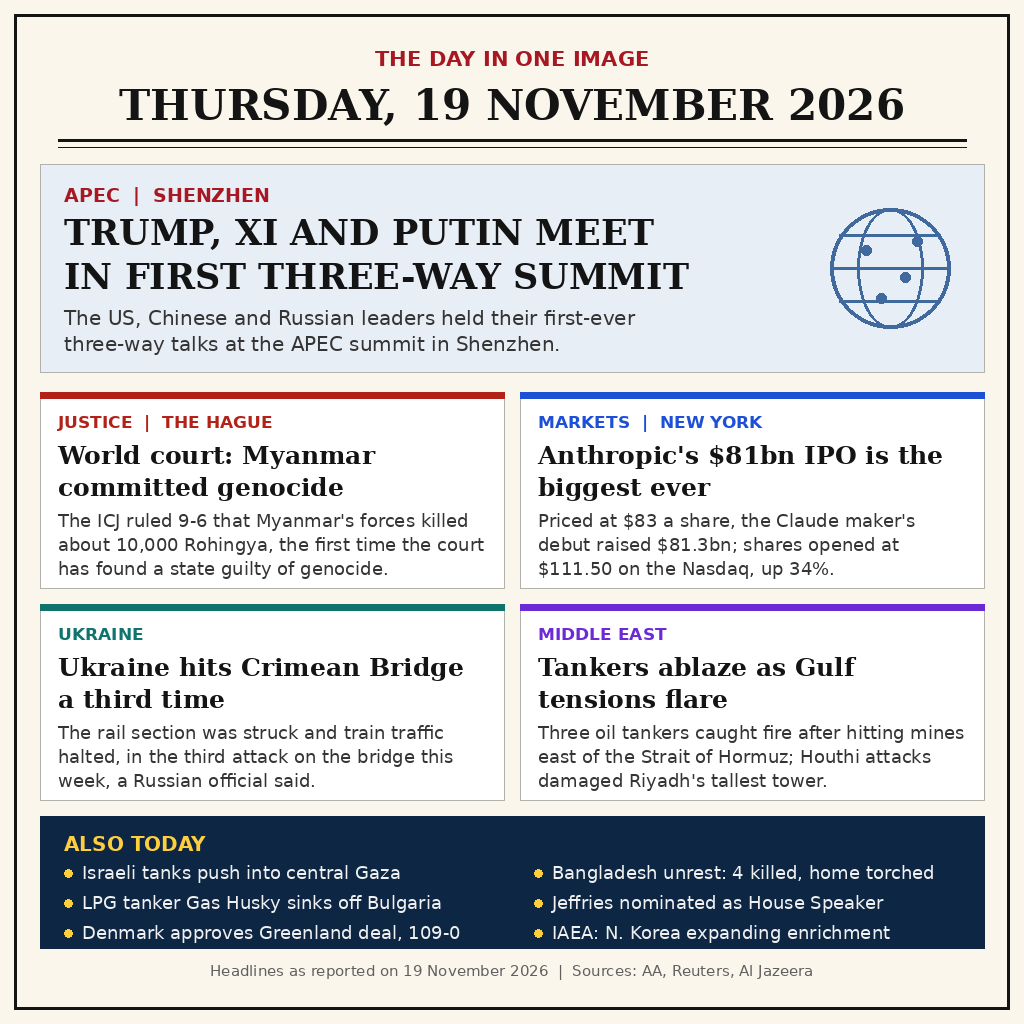
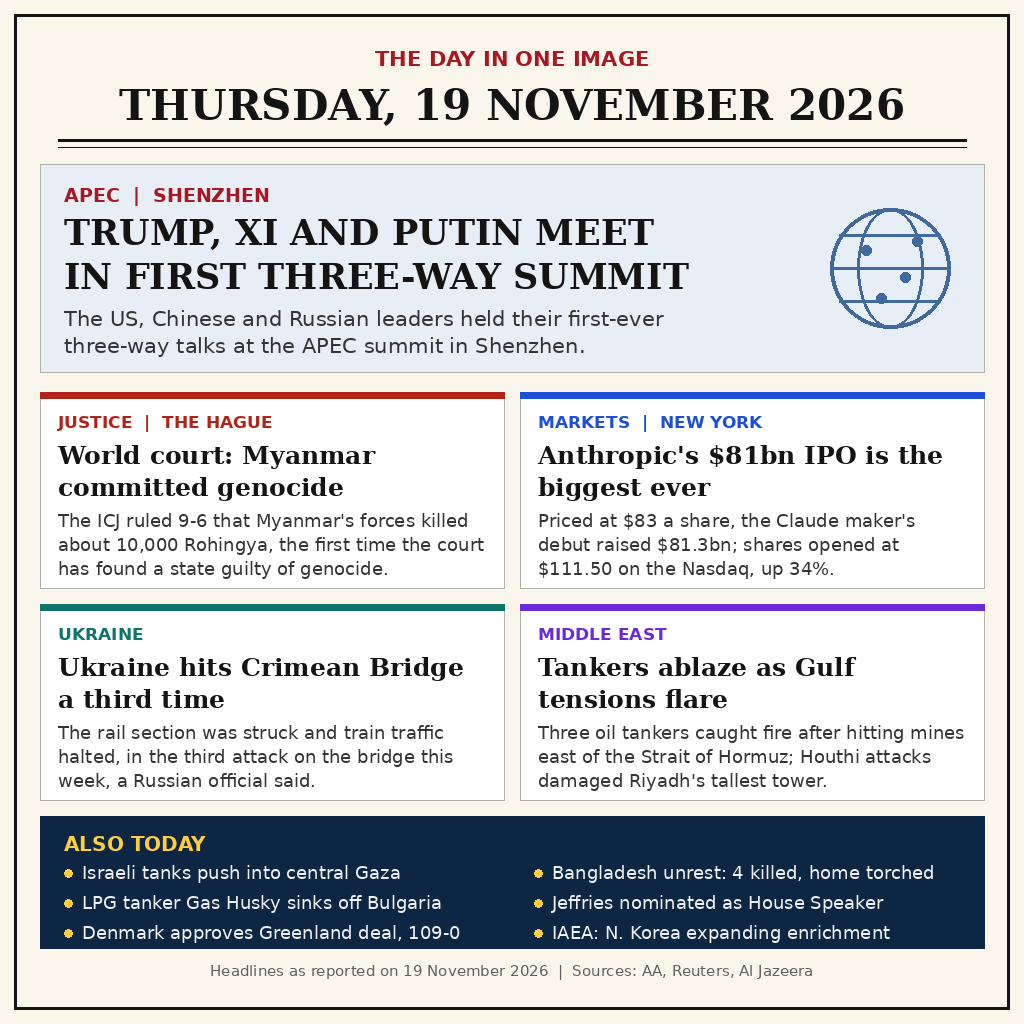
Standfirst readability + verify copy size in driver

Changed region(s): [[0.0625, 0.2812, 0.625, 0.3438]]

diff --git a/main.ts b/main.ts
@@ -11,7 +11,7 @@
 //
 //   mkdir -p out && MAKEFUN_OUTPUT_DIR=out node main.ts
 
-import { existsSync, mkdirSync, readFileSync, writeFileSync } from 'node:fs';
+import { existsSync, mkdirSync, readFileSync, statSync, writeFileSync } from 'node:fs';
 import { dirname, join } from 'node:path';
 import { fileURLToPath } from 'node:url';
 
@@ -26,9 +26,15 @@ if (!existsSync(source)) {
 mkdirSync(outDir, { recursive: true });
 
 const bytes = readFileSync(source);
-writeFileSync(dest, bytes);
-
 if (bytes.length === 0) {
   throw new Error('entry.png is empty, refusing to submit a blank image');
+}
+writeFileSync(dest, bytes);
+
+// Confirm the copy landed whole: the written file must match the source
+// byte for byte in size, or the gate would see a truncated image.
+const written = statSync(dest).size;
+if (written !== bytes.length) {
+  throw new Error(`short write: ${written} of ${bytes.length} bytes`);
 }
 console.log(`wrote ${dest} (${bytes.length} bytes)`);

diff --git a/src/render.py b/src/render.py
@@ -112,8 +112,8 @@ def lead_story(pen):
         "The US, Chinese and Russian leaders held their first-ever "
         "three-way talks at the APEC summit in Shenzhen."
     )
-    lines = fit_lines(pen, standfirst, "sans", 20, 640)
-    put_lines(pen, 64, 306, lines, "sans", 20, SOFT, 26)
+    lines = fit_lines(pen, standfirst, "sans", 21, 660)
+    put_lines(pen, 64, 306, lines, "sans", 21, SOFT, 27)
     draw_world(pen, 890, 268, 60)
 
 
